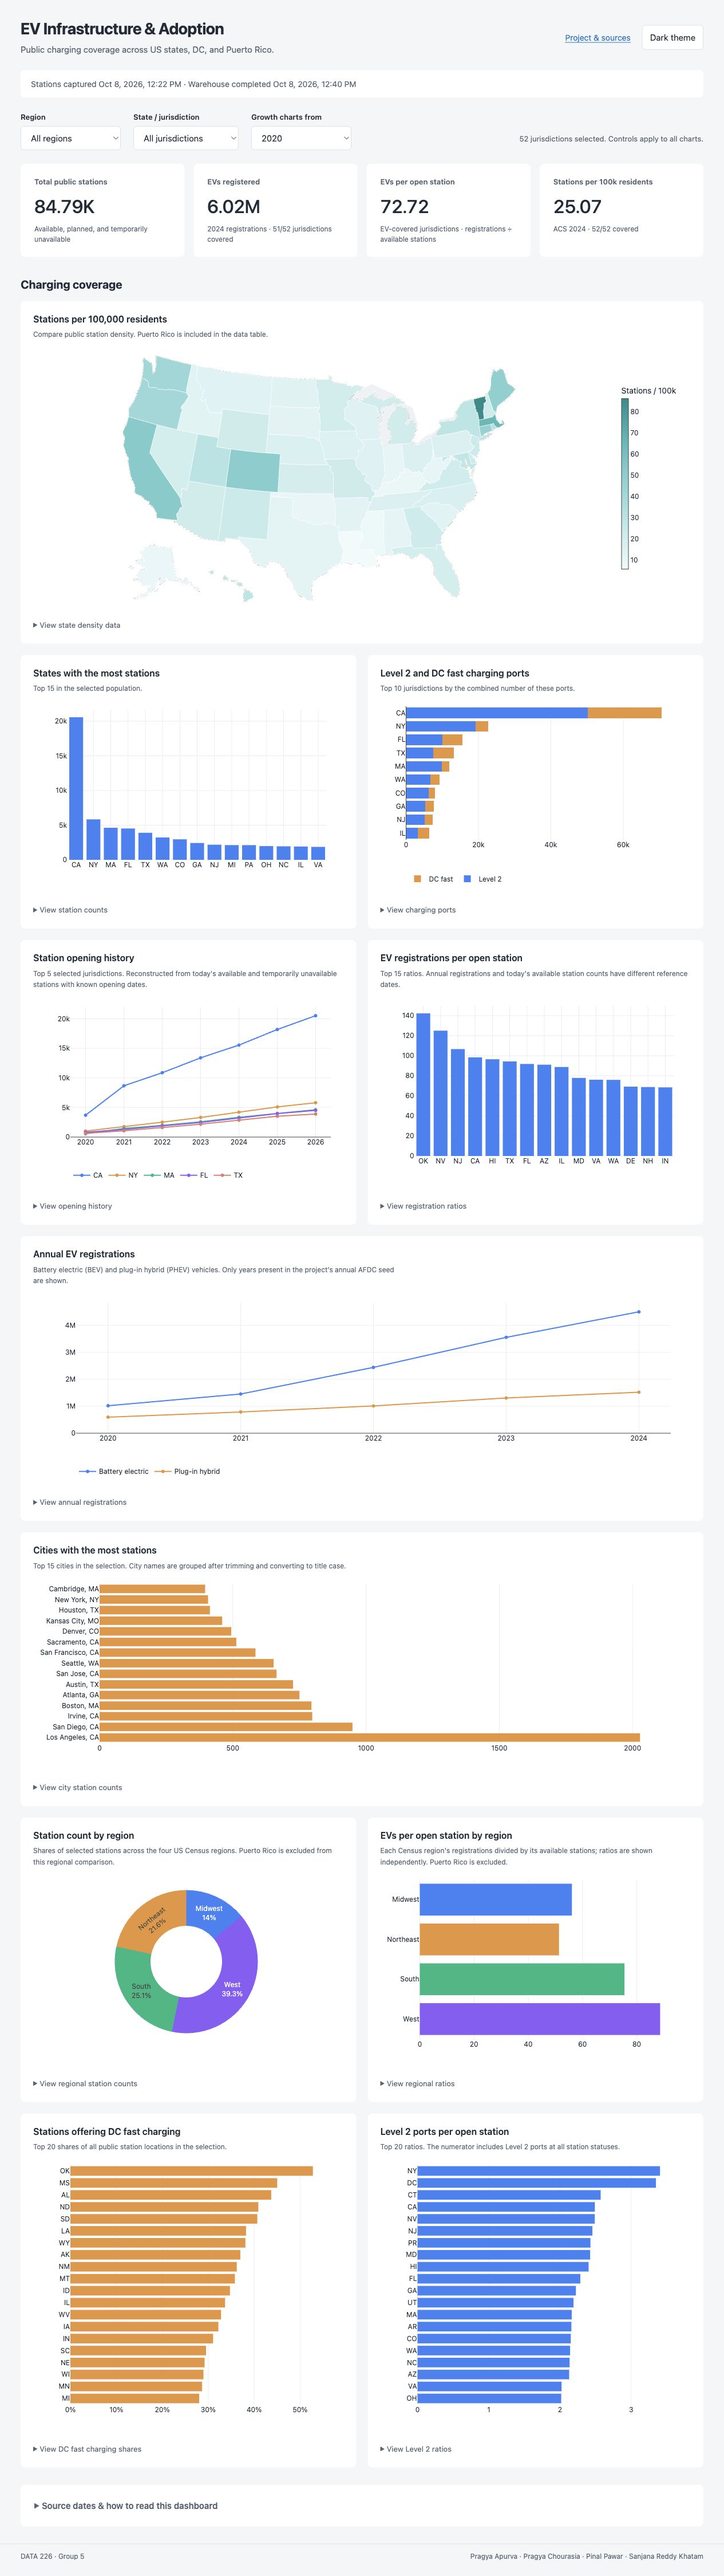
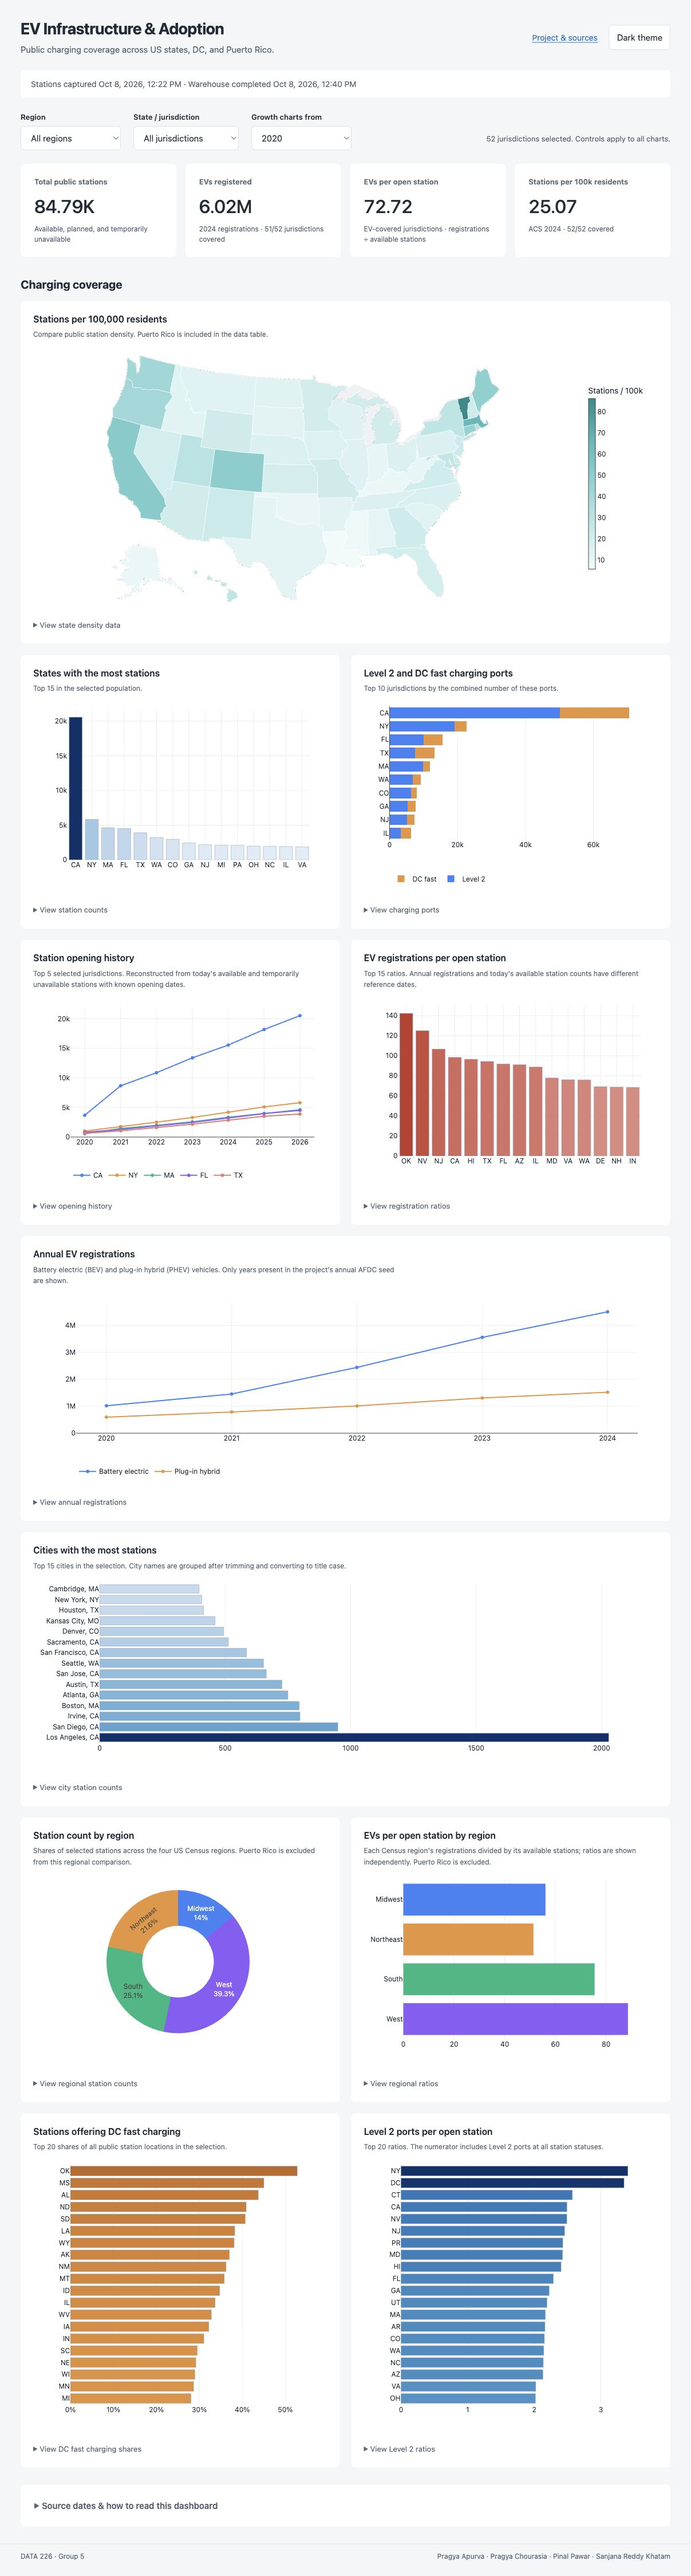
Match reference dashboard bar-chart color scales

diff --git a/web_dashboard/js/dashboard.js b/web_dashboard/js/dashboard.js
@@ -37,10 +37,14 @@
     await Plotly.react(host,traces,layout,{responsive:true,displayModeBar:false,scrollZoom:false,
       topojsonURL:new URL('assets/maps/',document.baseURI).href});
   }
-  function bars(id,rows,field,label,{horizontal=false,percent=false,color='blue'}={}) {
+  function bars(id,rows,field,label,{horizontal=false,percent=false,color='blue',scale=null}={}) {
     const t=theme(),labels=rows.map(r=>r.state_abbr||r.census_region||r.label),values=rows.map(r=>r[field]);
+    const scales={blue:t.dark?[[0,'#315d88'],[.5,'#60A5FA'],[1,'#bfdbfe']]:[[0,'#f7fbff'],[.2,'#c6dbef'],[.4,'#6baed6'],[.6,'#4292c6'],[.8,'#2171b5'],[1,'#08306b']],
+      amber:t.dark?[[0,'#935125'],[.5,'#E8943A'],[1,'#ffd6a0']]:[[0,'#fde8c8'],[.5,'#E8943A'],[1,'#c06820']],
+      coral:t.dark?[[0,'#914b45'],[1,'#f5aaa2']]:[[0,'#fcd5d0'],[1,'#c0392b']]};
+    const marker=scale?{color:values,colorscale:scales[scale],cmin:0,cmax:Math.max(1,...values.filter(v=>v!=null)),showscale:false,line:{color:t.dark?'#97acc2':'#7c96ad',width:.5}}:{color:Array.isArray(color)?color:t[color]};
     return plot(id,[{type:'bar',x:horizontal?values:labels,y:horizontal?labels:values,orientation:horizontal?'h':'v',
-      marker:{color:Array.isArray(color)?color:t[color]},hovertemplate:horizontal?'%{y}: %{x:,.2f}'+(percent?'%':'')+'<extra></extra>':'%{x}: %{y:,.2f}<extra></extra>'}],
+      marker,hovertemplate:horizontal?'%{y}: %{x:,.2f}'+(percent?'%':'')+'<extra></extra>':'%{x}: %{y:,.2f}<extra></extra>'}],
       horizontal?{margin:{l:65,r:24,t:12,b:50},xaxis:{title:label,gridcolor:t.grid,zerolinecolor:t.grid,automargin:true,ticksuffix:percent?'%':''},yaxis:{autorange:'reversed',automargin:true}}:
       {yaxis:{title:label,gridcolor:t.grid,zerolinecolor:t.grid,automargin:true,rangemode:'tozero'}});
   }
@@ -65,7 +69,7 @@
         colorscale:[[0,'#f0fafa'],[.15,'#d4f0f0'],[.35,'#a8e0e0'],[.55,'#7ccfcf'],[.75,'#4db8b8'],[1,'#1a8a8a']],colorbar:{title:{text:'Stations / 100k'},thickness:12,len:.75},marker:{line:{color:t.dark?'#344454':'#fff',width:.8}},
         hovertemplate:'%{text}<br>%{z:,.2f} stations / 100k residents<extra></extra>'}],{geo:{scope:'usa',projection:{type:'albers usa'},bgcolor:'transparent',showlakes:false,showland:true,landcolor:t.dark?'#283440':'#eef1f5'},margin:{l:0,r:0,t:4,b:4}}));
       table('map',states,[['state_name','Jurisdiction'],['total_stations','Stations'],['population','Population'],['population_year','ACS year'],['stations_per_100k_pop','Stations / 100k']]);
-      const stationRows=ranked(states,'total_stations',15);tasks.push(bars('stations',stationRows,'total_stations','Stations'));table('stations',stationRows,[['state_name','Jurisdiction'],['total_stations','Stations'],['stations_open','Available'],['stations_planned','Planned']]);
+      const stationRows=ranked(states,'total_stations',15);tasks.push(bars('stations',stationRows,'total_stations','Stations',{scale:'blue'}));table('stations',stationRows,[['state_name','Jurisdiction'],['total_stations','Stations'],['stations_open','Available'],['stations_planned','Planned']]);
       const ports=ranked(states.map(r=>({...r,combined:r.total_level2_ports+r.total_dcfast_ports})),'combined',10).reverse();
       tasks.push(plot('ports',[{type:'bar',orientation:'h',name:'Level 2',x:ports.map(r=>r.total_level2_ports),y:ports.map(r=>r.state_abbr),marker:{color:t.blue},hovertemplate:'%{y}: %{x:,} Level 2 ports<extra></extra>'},
         {type:'bar',orientation:'h',name:'DC fast',x:ports.map(r=>r.total_dcfast_ports),y:ports.map(r=>r.state_abbr),marker:{color:t.orange},hovertemplate:'%{y}: %{x:,} DC fast ports<extra></extra>'}],{barmode:'stack',margin:{l:45,r:20,t:12,b:80},xaxis:{title:'Ports',gridcolor:t.grid,automargin:true},yaxis:{automargin:true}}));
@@ -75,14 +79,14 @@
       const trendRows=growth.filter(r=>trendStates.some(s=>s.state_abbr===r.state_abbr));
       tasks.push(plot('growth',trendStates.map((s,i)=>{const rows=trendRows.filter(r=>r.state_abbr===s.state_abbr);return {type:'scatter',mode:'lines+markers',name:s.state_abbr,x:rows.map(r=>r.year),y:rows.map(r=>r.cumulative_stations),line:{color:colors[i]},hovertemplate:safe(s.state_name)+'<br>%{x}: %{y:,} known openings<extra></extra>'};}),{xaxis:{dtick:1,gridcolor:t.grid,automargin:true},yaxis:{title:'Cumulative known openings',gridcolor:t.grid,automargin:true,rangemode:'tozero'},margin:{l:65,r:15,t:20,b:85}}));
       table('growth',trendRows,[['state_name','Jurisdiction'],['year','Opening year'],['new_stations','New known openings'],['cumulative_stations','Cumulative known openings']]);
-      const gap=ranked(states,'evs_per_open_station',15);tasks.push(bars('gap',gap,'evs_per_open_station','EVs / open station'));table('gap',gap,[['state_name','Jurisdiction'],['total_ev_count','Registered EVs'],['ev_data_year','Registration year'],['stations_open','Available stations'],['evs_per_open_station','EVs / open station']]);
+      const gap=ranked(states,'evs_per_open_station',15);tasks.push(bars('gap',gap,'evs_per_open_station','EVs / open station',{scale:'coral'}));table('gap',gap,[['state_name','Jurisdiction'],['total_ev_count','Registered EVs'],['ev_data_year','Registration year'],['stations_open','Available stations'],['evs_per_open_station','EVs / open station']]);
       const registrationYears=[...new Set(growth.filter(r=>r.total_ev_count!=null).map(r=>r.year))].sort((a,b)=>a-b);
       const registrations=registrationYears.map(year=>{const rows=growth.filter(r=>r.year===year&&r.total_ev_count!=null);return {year,bev_count:sum(rows,'bev_count'),phev_count:sum(rows,'phev_count'),total_ev_count:sum(rows,'total_ev_count'),coverage:rows.length};});
       tasks.push(plot('registrations',[{type:'scatter',mode:'lines+markers',name:'Battery electric',x:registrationYears,y:registrations.map(r=>r.bev_count),line:{color:t.blue},hovertemplate:'%{x}: %{y:,} BEVs<extra></extra>'},
         {type:'scatter',mode:'lines+markers',name:'Plug-in hybrid',x:registrationYears,y:registrations.map(r=>r.phev_count),line:{color:t.orange},hovertemplate:'%{x}: %{y:,} PHEVs<extra></extra>'}],{xaxis:{dtick:1,gridcolor:t.grid,automargin:true},yaxis:{title:'Registered vehicles',gridcolor:t.grid,automargin:true,rangemode:'tozero'},margin:{l:75,r:20,t:20,b:80}}));
       table('registrations',registrations,[['year','Registration year'],['bev_count','BEVs'],['phev_count','PHEVs'],['total_ev_count','Total EVs'],['coverage','Jurisdictions with data']]);
       const cities=ranked(data.cities.filter(r=>abbrs.has(r.state_abbr)).map(r=>({...r,label:r.city+', '+r.state_abbr})),'total_stations',15).reverse();
-      tasks.push(bars('cities',cities.map(r=>({...r,state_abbr:r.label})),'total_stations','Stations',{horizontal:true,color:'orange'}));
+      tasks.push(bars('cities',cities.map(r=>({...r,state_abbr:r.label})),'total_stations','Stations',{horizontal:true,scale:'blue'}));
       table('cities',cities.slice().reverse(),[['city','City'],['state_abbr','State'],['total_stations','Stations'],['stations_open','Available stations']]);
       const regionStates=states.filter(r=>Object.hasOwn(regionColors,r.census_region));
       const regions=[...new Set(regionStates.map(r=>r.census_region))].sort().map(census_region=>{const rows=regionStates.filter(r=>r.census_region===census_region),ev=rows.filter(r=>r.total_ev_count!=null);return {census_region,total_stations:sum(rows,'total_stations'),total_ev_count:sum(ev,'total_ev_count'),stations_open:sum(ev,'stations_open'),evs_per_open_station:ratio(sum(ev,'total_ev_count'),sum(ev,'stations_open'))};});
@@ -90,8 +94,8 @@
       table('regions',regions,[['census_region','Region'],['total_stations','Stations']]);
       tasks.push(bars('region-gap',regions,'evs_per_open_station','EVs / open station',{horizontal:true,color:regions.map(r=>regionColors[r.census_region])}));table('region-gap',regions,[['census_region','Region'],['total_ev_count','Registered EVs'],['stations_open','EV-covered available stations'],['evs_per_open_station','EVs / open station']]);
       const fast=ranked(states,'dcfast_penetration_pct',20),l2=ranked(states,'avg_l2_per_open_station',20);
-      tasks.push(bars('fast',fast,'dcfast_penetration_pct','Share of station locations',{horizontal:true,percent:true,color:'orange'}));table('fast',fast,[['state_name','Jurisdiction'],['stations_with_dcfast','Stations with DC fast'],['total_stations','All stations'],['dcfast_penetration_pct','Share (%)']]);
-      tasks.push(bars('l2',l2,'avg_l2_per_open_station','Level 2 ports / open station',{horizontal:true}));table('l2',l2,[['state_name','Jurisdiction'],['total_level2_ports','Level 2 ports'],['stations_open','Available stations'],['avg_l2_per_open_station','Level 2 / open station']]);
+      tasks.push(bars('fast',fast,'dcfast_penetration_pct','Share of station locations',{horizontal:true,percent:true,scale:'amber'}));table('fast',fast,[['state_name','Jurisdiction'],['stations_with_dcfast','Stations with DC fast'],['total_stations','All stations'],['dcfast_penetration_pct','Share (%)']]);
+      tasks.push(bars('l2',l2,'avg_l2_per_open_station','Level 2 ports / open station',{horizontal:true,scale:'blue'}));table('l2',l2,[['state_name','Jurisdiction'],['total_level2_ports','Level 2 ports'],['stations_open','Available stations'],['avg_l2_per_open_station','Level 2 / open station']]);
       await Promise.all(tasks);
       document.body.dataset.ready='true';
     } catch(error) { $('status').className='error';$('status').textContent='A chart could not be displayed. Reload the dashboard or use its data tables.';console.error('EV chart rendering failed.'); }
